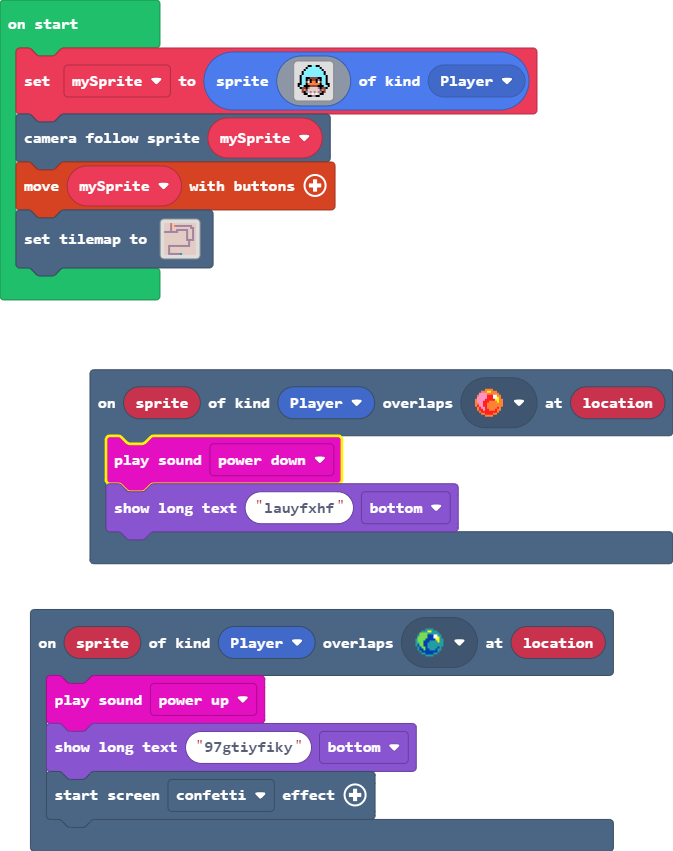
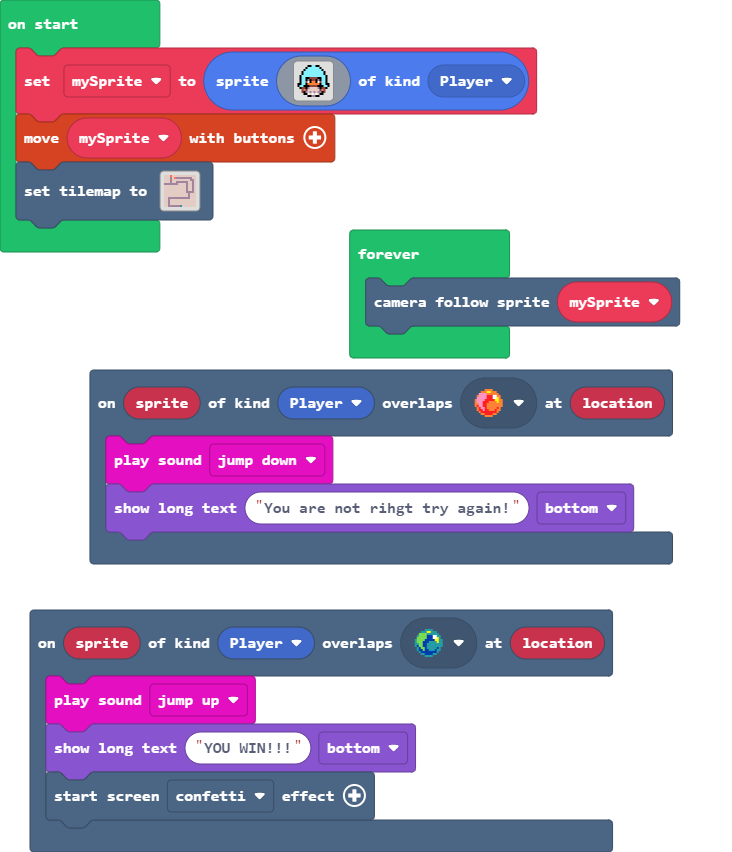
Update main.blocks, main.ts

diff --git a/main.ts b/main.ts
@@ -1,13 +1,15 @@
 scene.onOverlapTile(SpriteKind.Player, sprites.dungeon.collectibleBlueCrystal, function (sprite, location) {
-    music.powerUp.play()
-    game.showLongText("97gtiyfiky", DialogLayout.Bottom)
+    music.jumpUp.play()
+    game.showLongText("YOU WIN!!!", DialogLayout.Bottom)
     effects.confetti.startScreenEffect()
 })
 scene.onOverlapTile(SpriteKind.Player, sprites.dungeon.collectibleRedCrystal, function (sprite, location) {
-    music.powerDown.play()
-    game.showLongText("lauyfxhf", DialogLayout.Bottom)
+    music.jumpDown.play()
+    game.showLongText("You are not rihgt try again!", DialogLayout.Bottom)
 })
 let mySprite = sprites.create(assets.image`myImage`, SpriteKind.Player)
-scene.cameraFollowSprite(mySprite)
 controller.moveSprite(mySprite)
 tiles.setTilemap(tilemap`level1`)
+forever(function () {
+    scene.cameraFollowSprite(mySprite)
+})
